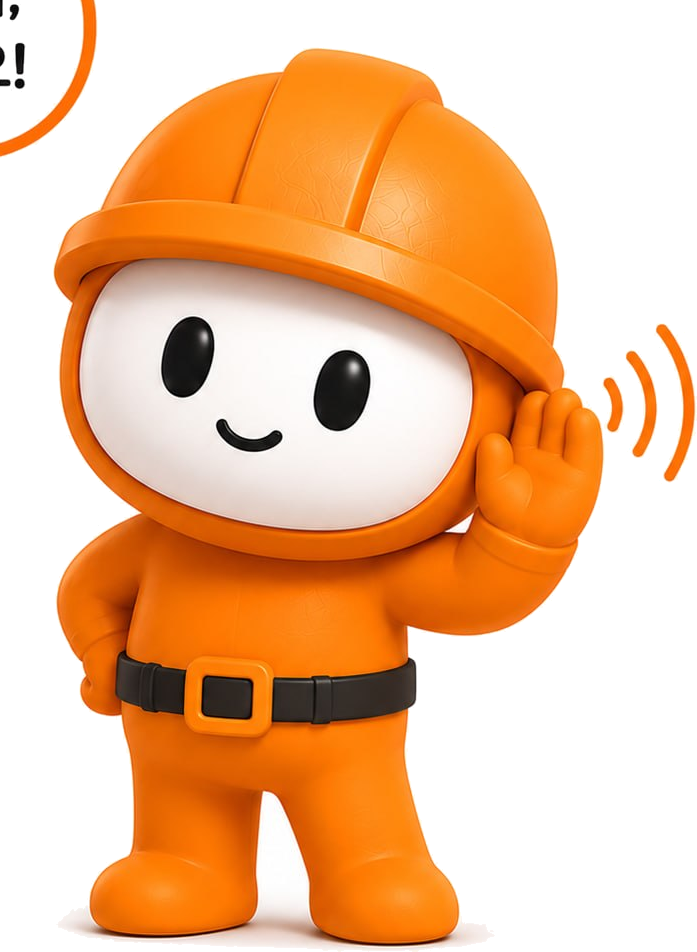
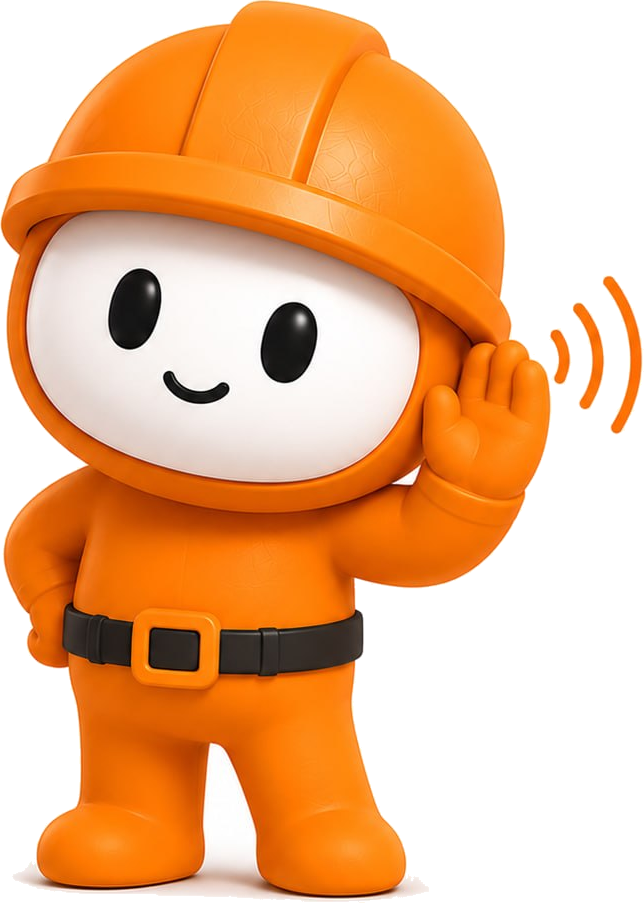
fix(마스코트): 배치·모션·스프라이트 잔해 수정
- listen 스프라이트 좌상단에 말풍선 잔해가 남아 있던 것 제거(연결성분 분석, 소품은 보존)
- 음파를 별도 레이어 2장으로 분리 — 손끝에서 시차를 두고 퍼졌다 사라진다.
  기존엔 이미지 한 장을 통째로 scale해 '그냥 커졌다 작아졌다'로 읽혔다
- breathe(scale) → sway(회전) 교체: 캐릭터는 부피가 변하는 게 아니라 무게중심이 흔들려야 살아 보인다
- 랜딩 배치: 좌측 칼럼 빈 공간에 떠 있던 것을 녹음 카드 왼쪽 아래로 옮기고 카드 '뒤'에 세움
  (앞에 두면 카드의 일시정지 버튼을 덮는 것을 실측 확인). 모바일은 폭이 없어 생략
- 섹션에 overflow-x-clip — 좁은 화면 가로 스크롤 방지

diff --git a/components/Antoki.tsx b/components/Antoki.tsx
@@ -1,6 +1,10 @@
 // components/Antoki.tsx — 마스코트 '안톡이' 렌더러
 /* Hallmark · component: mascot · genre: modern-minimal · theme: 안톡 cur-* (기존 토큰만)
- * motion: breathe · bob · pop — 프리미티브 3개 고정. 여기 없는 모션은 추가하지 않는다.
+ * motion: sway · bob · pop — 프리미티브 3개 고정. 여기 없는 모션은 추가하지 않는다.
+ *   sway는 기울임(회전)이다. 예전엔 scale 호흡이었는데 "그냥 커졌다 작아졌다"로 읽혀서 버렸다 —
+ *   마스코트는 부피가 변하는 게 아니라 몸을 기울여야 살아 있어 보인다.
+ * listen만 예외적으로 합성 렌더다: 몸 + 음파 2겹을 겹쳐 손끝에서 소리가 순차로 퍼진다.
+ *   (음파는 이 포즈 고유의 소품이라 범용 프리미티브가 아니다 — 다른 포즈로 번지지 않게 가둬 둔다)
  * keyframes: app/globals.css의 @keyframes antoki-* (prefers-reduced-motion에서 전부 무력화)
  * a11y: 기본은 장식(aria-hidden + alt="") · label을 주면 그때만 의미를 전달한다
  */
@@ -20,21 +24,22 @@ const POSES = {
   guide: { w: 205, h: 226, bust: false },
   shield: { w: 143, h: 219, bust: false },
   run: { w: 194, h: 220, bust: false },
-  listen: { w: 697, h: 952, bust: false },
+  listen: { w: 644, h: 903, bust: false },
 } as const
 
 export type AntokiPose = keyof typeof POSES
 export type AntokiSize = "sm" | "md" | "lg" | "xl"
-export type AntokiMotion = "breathe" | "bob" | "pop" | "none"
+export type AntokiMotion = "sway" | "bob" | "pop" | "none"
 export type AntokiAnchor = "bottom" | "free"
 
 /** 표시 높이(px). 원본 해상도를 넘겨 키우면 흐려지므로 아래 CAP으로 한 번 더 자른다. */
-const HEIGHT: Record<AntokiSize, number> = { sm: 44, md: 64, lg: 96, xl: 128 }
+/* xl은 listen 전용 크기다 — 다른 포즈는 원본이 200px대라 CAP_DEFAULT(96)에서 잘린다 */
+const HEIGHT: Record<AntokiSize, number> = { sm: 44, md: 64, lg: 96, xl: 168 }
 const CAP_DEFAULT = 96
-const CAP_LISTEN = 160
+const CAP_LISTEN = 200
 
 const MOTION_CLASS: Record<Exclude<AntokiMotion, "none">, string> = {
-  breathe: "antoki-breathe",
+  sway: "antoki-sway",
   bob: "antoki-bob",
   pop: "antoki-pop",
 }
@@ -49,7 +54,7 @@ export function Antoki({
 }: {
   pose: AntokiPose
   size?: AntokiSize
-  /** breathe=대기 · bob=활동 중 · pop=등장 · none=정지 */
+  /** sway=대기(기울임) · bob=활동 중 · pop=등장 · none=정지 */
   motion?: AntokiMotion
   /** 생략하면 컷 형태에서 결정된다(상반신=bottom, 전신=free) */
   anchor?: AntokiAnchor
@@ -63,9 +68,13 @@ export function Antoki({
   const w = Math.round((h * meta.w) / meta.h)
 
   const bottomAnchored = (anchor ?? (meta.bust ? "bottom" : "free")) === "bottom"
-  // 상반신 컷은 띄우면 잘린 단면이 드러난다 — bob은 breathe(제자리 호흡)로 내린다
-  const applied: AntokiMotion = bottomAnchored && motion === "bob" ? "breathe" : motion
+  // 상반신 컷은 띄우면 잘린 단면이 드러난다 — bob은 sway(제자리 기울임)로 내린다
+  const applied: AntokiMotion = bottomAnchored && motion === "bob" ? "sway" : motion
   const motionClass = applied === "none" ? "" : MOTION_CLASS[applied]
+
+  // listen은 몸과 음파를 따로 움직여야 '듣고 있다'가 성립한다.
+  // 세 레이어가 같은 캔버스(644×903)를 공유하므로 inset-0로 겹치면 위치가 맞는다.
+  const layered = pose === "listen"
 
   return (
     <span
@@ -73,19 +82,45 @@ export function Antoki({
       style={{
         width: w,
         height: h,
-        transformOrigin: bottomAnchored ? "bottom center" : "center",
+        transformOrigin: bottomAnchored ? "bottom center" : "center bottom",
       }}
       {...(label ? { role: "img", "aria-label": label } : { "aria-hidden": true })}
     >
-      <Image
-        src={`/antoki/${pose}.png`}
-        alt=""
-        width={w}
-        height={h}
-        /* sizes를 주면 next/image가 반응형 srcSet으로 바뀌어 2x 후보가 사라진다 —
-           고정 크기라 기본 srcSet(1x·2x)을 그대로 쓰는 편이 레티나에서 선명하다 */
-        className="block h-full w-full object-contain"
-      />
+      {layered ? (
+        <span className="relative block h-full w-full">
+          <Image
+            src="/antoki/listen-body.png"
+            alt=""
+            width={w}
+            height={h}
+            className="block h-full w-full object-contain"
+          />
+          <Image
+            src="/antoki/listen-wave-1.png"
+            alt=""
+            width={w}
+            height={h}
+            className="antoki-wave-1 absolute inset-0 h-full w-full object-contain"
+          />
+          <Image
+            src="/antoki/listen-wave-2.png"
+            alt=""
+            width={w}
+            height={h}
+            className="antoki-wave-2 absolute inset-0 h-full w-full object-contain"
+          />
+        </span>
+      ) : (
+        <Image
+          src={`/antoki/${pose}.png`}
+          alt=""
+          width={w}
+          height={h}
+          /* sizes를 주면 next/image가 반응형 srcSet으로 바뀌어 2x 후보가 사라진다 —
+             고정 크기라 기본 srcSet(1x·2x)을 그대로 쓰는 편이 레티나에서 선명하다 */
+          className="block h-full w-full object-contain"
+        />
+      )}
     </span>
   )
 }

diff --git a/app/page.tsx b/app/page.tsx
@@ -771,7 +771,8 @@ export default function MainPage() {
         </section>
 
         {/* 녹음 — 히어로 바로 아래 본문 시작: 입력이 얼마나 단순한지부터 보여준다 */}
-        <section id="process" className="max-w-6xl mx-auto px-5 sm:px-8 pb-20 sm:pb-28">
+        {/* overflow-x-clip — 마스코트가 카드 왼쪽으로 삐져나오므로 좁은 화면에서 가로 스크롤이 생기지 않게 */}
+        <section id="process" className="max-w-6xl mx-auto px-5 sm:px-8 pb-20 sm:pb-28 overflow-x-clip">
           <div className="grid md:grid-cols-2 gap-8 md:gap-14 items-center">
             <Reveal>
               <span className="inline-block text-[12px] font-semibold text-cur-primary bg-cur-primary/10 px-2.5 py-1 rounded-full">
@@ -791,14 +792,26 @@ export default function MainPage() {
                   </span>
                 ))}
               </div>
-              {/* 안톡이 — 이 랜딩에서 마스코트는 여기 한 곳뿐이다.
-                  '듣고 있다'가 이 섹션의 주장이라 listen 포즈만 의미가 맞는다.
-                  옆 목업의 빨간 점(animate-ping)이 이미 '지금 진행 중'을 맡고 있어서
-                  마스코트는 조용한 쪽(breathe)으로 둔다. 장식이라 aria-hidden. */}
-              <Antoki pose="listen" size="xl" motion="breathe" className="mt-7" />
             </Reveal>
             <Reveal delay={140} className="max-w-md w-full mx-auto md:mx-0 md:justify-self-end">
-              <RecordingCard />
+              {/* 안톡이 — 이 랜딩에서 마스코트는 여기 한 곳뿐이다.
+                  녹음 카드 왼쪽 아래 모서리에 겹쳐 세운다: 떼어 놓으면 그냥 붙여둔 스티커로
+                  읽히고, 카드에 붙여야 '이 소리를 듣고 있다'는 관계가 생긴다.
+                  음파가 오른쪽으로 퍼지므로 반드시 카드의 왼편이어야 방향이 맞는다. */}
+              <div className="relative">
+                <Antoki
+                  pose="listen"
+                  size="xl"
+                  motion="sway"
+                  /* 카드 '뒤'에 세운다 — 앞에 두면 카드의 일시정지 버튼을 덮는다(실측).
+                     뒤에서 왼쪽으로 기대어 서면 가리는 것 없이 관계만 생긴다.
+                     모바일은 카드 옆에 세울 폭이 없어 생략한다(억지로 겹치면 목업을 가린다). */
+                  className="pointer-events-none absolute -bottom-5 -left-24 hidden sm:block"
+                />
+                <div className="relative z-10">
+                  <RecordingCard />
+                </div>
+              </div>
             </Reveal>
           </div>
         </section>

diff --git a/app/globals.css b/app/globals.css
@@ -141,9 +141,12 @@ html {
 /* ── 마스코트 '안톡이' 모션 프리미티브 (components/Antoki.tsx 전용) ──
    딱 셋만 둔다. 늘리면 화면마다 다른 리듬이 생겨서 금방 질린다.
    transform·opacity만 건드린다 — 레이아웃 속성은 애니메이트하지 않는다. */
-@keyframes antoki-breathe {
-  0%, 100% { transform: scale(1); }
-  50% { transform: scale(1.03); }
+/* sway = 몸을 기울인다. 예전의 scale 호흡은 "그냥 커졌다 작아졌다"로 읽혀 버렸다 —
+   캐릭터는 부피가 변하는 게 아니라 무게중심이 움직여야 살아 있어 보인다.
+   회전축은 발밑(bottom)이라 서 있는 채로 갸웃거린다. */
+@keyframes antoki-sway {
+  0%, 100% { transform: rotate(-1.8deg) translateY(0); }
+  50% { transform: rotate(1.8deg) translateY(-3px); }
 }
 @keyframes antoki-bob {
   0%, 100% { transform: translateY(0); }
@@ -154,21 +157,41 @@ html {
   60% { transform: scale(1.06); opacity: 1; }
   100% { transform: scale(1); opacity: 1; }
 }
+/* listen 포즈 전용 — 손끝 음파가 바깥으로 번졌다 사라진다. 두 겹을 시차로 돌려
+   소리가 퍼져 나가는 방향(왼→오른쪽)을 만든다. 다른 포즈에는 쓰지 않는다. */
+@keyframes antoki-wave {
+  0% { opacity: 0; transform: translateX(-5%) scale(0.86); }
+  35% { opacity: 1; }
+  70% { opacity: 0.5; }
+  100% { opacity: 0; transform: translateX(4%) scale(1.08); }
+}
 @keyframes antoki-fade {
   from { opacity: 0; }
   to { opacity: 1; }
 }
 
-.antoki-breathe { animation: antoki-breathe 2600ms ease-in-out infinite; }
+.antoki-sway { animation: antoki-sway 3400ms ease-in-out infinite; }
 .antoki-bob { animation: antoki-bob 1600ms ease-in-out infinite; }
 .antoki-pop { animation: antoki-pop 420ms ease-out 1 both; }
+.antoki-wave-1,
+.antoki-wave-2 {
+  transform-origin: left center;
+  animation: antoki-wave 1900ms ease-out infinite;
+}
+.antoki-wave-2 { animation-delay: 340ms; }
 
-/* 모션 감축 설정에서는 무한 루프를 세우고 150ms 페이드인 하나로 붕괴시킨다 */
+/* 모션 감축 설정에서는 무한 루프를 세우고 150ms 페이드인 하나로 붕괴시킨다.
+   음파도 애니메이션을 끄되 보이게는 둔다(그림의 일부라 사라지면 손짓이 어색해진다) */
 @media (prefers-reduced-motion: reduce) {
-  .antoki-breathe,
+  .antoki-sway,
   .antoki-bob,
   .antoki-pop {
     animation: antoki-fade 150ms ease-out 1 both;
+  }
+  .antoki-wave-1,
+  .antoki-wave-2 {
+    animation: none;
+    opacity: 1;
   }
 }
 

diff --git a/app/suggestions/page.tsx b/app/suggestions/page.tsx
@@ -76,7 +76,7 @@ export default function SuggestionsPage() {
                         <div className="flex flex-col items-center py-16 text-cur-muted">
                             {/* 빈 제안함 = 기다리는 상태. 회색 아이콘보다 '귀 기울이는 중'이 더 정확하다 */}
                             {/* 바로 아래 문구가 상태를 말하고 있으니 마스코트는 장식으로 둔다(중복 낭독 방지) */}
-                            <Antoki pose="listen" size="md" motion="breathe" className="mb-3" />
+                            <Antoki pose="listen" size="md" motion="sway" className="mb-3" />
                             <p className="text-[14px]">아직 접수된 제안이 없습니다.</p>
                             <p className="text-[12px] text-cur-muted-soft mt-1">서명 QR을 공유하면 참석자가 의견을 남길 수 있어요.</p>
                         </div>
